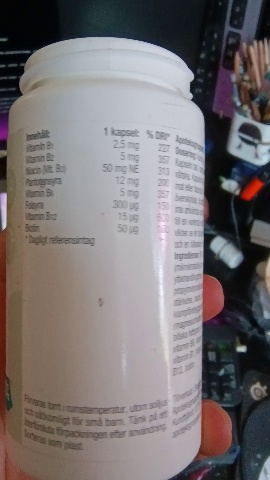
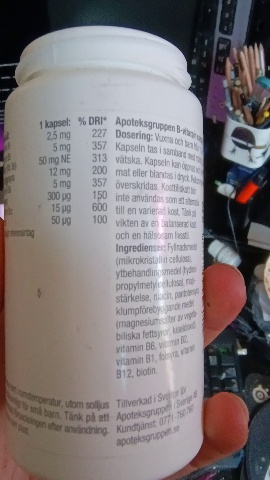
update in methods for perspective transformation, update in TODOs.

diff --git a/image_manager.py b/image_manager.py
@@ -48,7 +48,7 @@ class ManageFrames:
             text_threshold=self.text_threshold)
         print(f'type:{type(detections)} len:{len(detections)}')
         print(f'detections: {detections}')
-        detections.class_id
+        #detections.class_id
         detections.mask = self.segment_label(frame, detections.xyxy)
         mask_annotator = sv.MaskAnnotator()
         empty_image = np.zeros((frame.shape), dtype=np.uint8)
@@ -68,7 +68,7 @@ class ManageFrames:
         self.sam_predictor.set_image(frame, image_format='RGB')
         result_masks = []
         for box in xyxy:
-            masks, scores, logits = self.sam_predictor.predict(
+            masks, scores, _ = self.sam_predictor.predict(
                 box=box, multimask_output=False)
             index = np.argmax(scores)
             result_masks.append(masks[index])
@@ -79,37 +79,39 @@ class ManageFrames:
         """
         Uses mask to detect ROI and return ROI with perspective corrected.
         """
-        # _, mask_binary = cv2.threshold(mask, 0, 255, cv2.THRESH_BINARY)
         _, mask_binary = cv2.threshold(mask, mask.mean(), mask.max(),
                                        cv2.THRESH_BINARY)
         contours, _ = cv2.findContours(mask_binary, cv2.RETR_LIST,
                                        cv2.CHAIN_APPROX_SIMPLE)
-        print(f'contours total: {len(contours)}')
-        print(f'contour: {contours}')
-
         cont_max = max(contours, key=cv2.contourArea)
-        points_2 = self.sort_correction_corners(
-            np.array([(0, 0), (frame.shape[0], 0),
-                      (frame.shape[:2]), (0, frame.shape[1])]))
+        x, y, w, h = cv2.boundingRect(cont_max)
+
+        frame = frame[y:y+h, x:x+w]
+        mask = mask_binary[y:y+h, x:x+w]
+        contours, _ = cv2.findContours(mask, cv2.RETR_LIST,
+                                       cv2.CHAIN_APPROX_SIMPLE)
+        cont_max = max(contours, key=cv2.contourArea)
+
         points_1 = self.get_approx_corners(cont_max)
+        points_2 = self.get_corr_corners(cont_max)
 
-        if isinstance(points_1, np.ndarray):
-            points = [list(val[0]) for val in points_1]
-            width = max(point[0] for point in points)
-            height = max(point[1] for point in points)
-        else:
-            points_1 = False
-
-        if isinstance(points_1, np.ndarray):
-            print(f'p1-{type(points_1)}- {points_1}')
-            print(f'p2-{type(points_2)}- {points_2}')
+        if all(isinstance(p, np.ndarray) for p in [points_1, points_2]):
             matrix = cv2.getPerspectiveTransform(np.float32(points_1),
-                                                 np.float32(points_2))
-
+                                                 np.float32(points_2),
+                                                 cv2.DECOMP_SVD)
             frame = cv2.warpPerspective(frame, matrix,
-                                        (width, height),
-                                        flags=cv2.INTER_LINEAR)
+                                        dsize=cv2.boundingRect(cont_max)[2:])
         return frame
+
+    def get_corr_corners(self, contour: np.ndarray) -> np.ndarray:
+        """
+        Get corners to warp ROI to.
+        """
+        x, y, w, h = cv2.boundingRect(contour)
+        print(x, y, w, h)
+        corners = self.sort_correction_corners(np.array(
+            [[[0, y]], [[w, y]], [[w, h]], [[0, h]]]))
+        return corners
 
     def get_approx_corners(self, contour: np.ndarray) -> np.ndarray:
         """
@@ -123,22 +125,20 @@ class ManageFrames:
         - numpy.ndarray or None: An array containing the approximated corners 
         of the contour if it is a quadrilateral shape; otherwise, None.
         """
-        eps_vals = [0.99, 0.9, 0.5, 0.4, 0.3, 0.1,
-                    0.09, 0.08, 0.07, 0.06,
-                    0.05, 0.04, 0.025, 0.030,
-                    0.02, 0.015, 0.01, 0.009,
-                    0.005, 0.001, 0.0005, 0.0001]
+        eps_vals = [0.0001, 0.0005, 0.001, 0.005, 0.009,
+                    0.01, 0.015, 0.02, 0.025, 0.03,
+                    0.035, 0.04, 0.045, 0.05, 0.055,
+                    0.06, 0.065, 0.07, 0.075, 0.08,
+                    0.085, 0.09, 0.095, 0.1, 0.13,
+                    0.15, 0.2, 0.25, 0.3, 0.35,
+                    0.4, 0.045, 0.5, 0.055, 0.9]
         for eps_val in eps_vals:
             epsilon = eps_val * cv2.arcLength(contour, True)
             approx = cv2.approxPolyDP(contour, epsilon, True)
-            print(f'{eps_val}-{len(approx)}')
-            print(approx)
             if len(approx) == 4:
-                print(f'\napprox{type(approx)}: \n{approx}\n')
+                print(eps_val)
                 approx = self.sort_correction_corners(approx)
-                print(f'\napprox sorted{type(approx)}: \n{approx}\n')
                 return approx
-        print('\nno approx?\n')
 
     def sort_correction_corners(self, corners) -> list:
         """

diff --git a/image_manipulation.py b/image_manipulation.py
@@ -263,7 +263,8 @@ class ManageFrames:
         """
         gray = cv2.cvtColor(frame, cv2.COLOR_BGR2GRAY)
         _, mask = cv2.threshold(gray, 30, 250, cv2.THRESH_BINARY)
-        contours, _ = cv2.findContours(mask, cv2.RETR_EXTERNAL, cv2.CHAIN_APPROX_SIMPLE)
+        contours, _ = cv2.findContours(mask, cv2.RETR_EXTERNAL,
+                                       cv2.CHAIN_APPROX_SIMPLE)
 
         contour_max = max(contours, key=cv2.contourArea)
         approx = []

diff --git a/README.md b/README.md
@@ -24,6 +24,8 @@ TODO: enhance images before merge?
 
 TODO: ROI returning(image_manager/distort_perspective) fit roi in mask -> distort roi(in mask) to rectangle w height and width of mask.
 
+TODO: Instead of perspective transform just by corners, try  to find largest and smallest x and y  among the sides of the label, and make it  8 correction points.
+
 2) add option to add label by photo for fully visible labels.
 
 3) Detect words on ingredient label, filter and save by target language.
